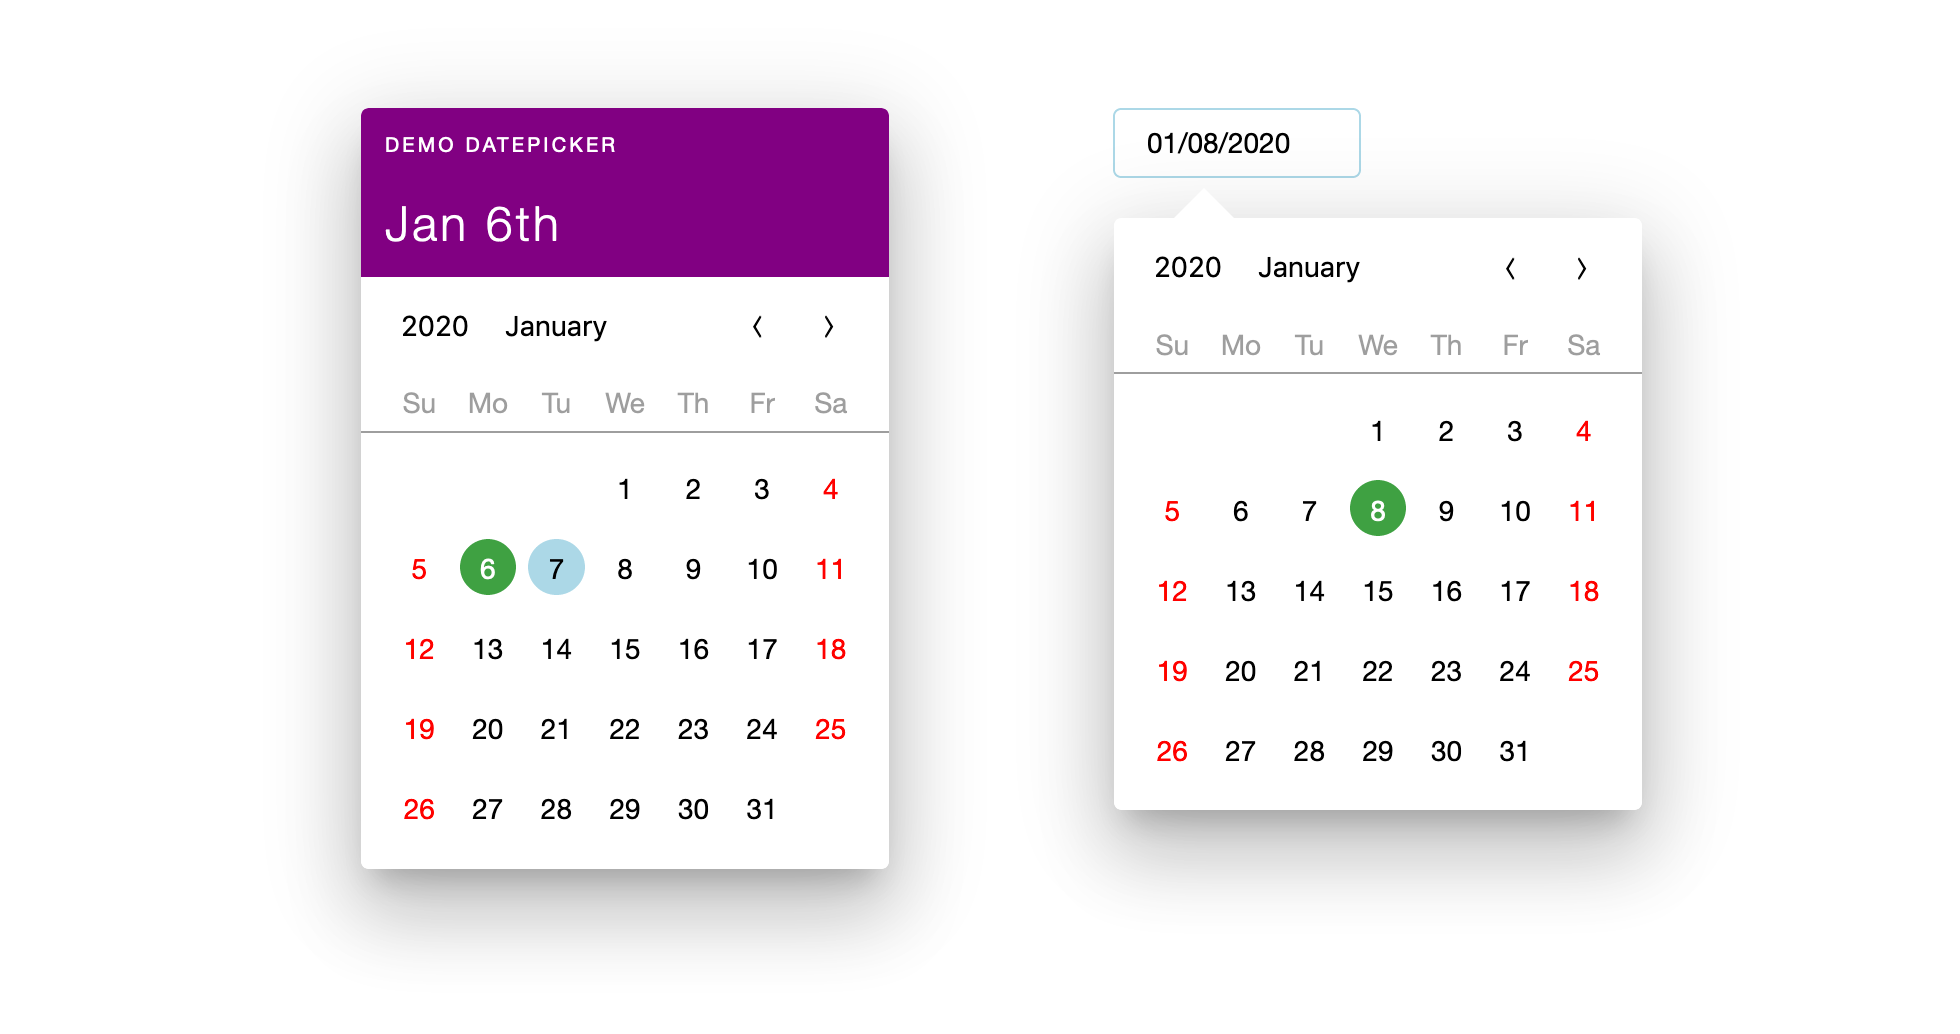
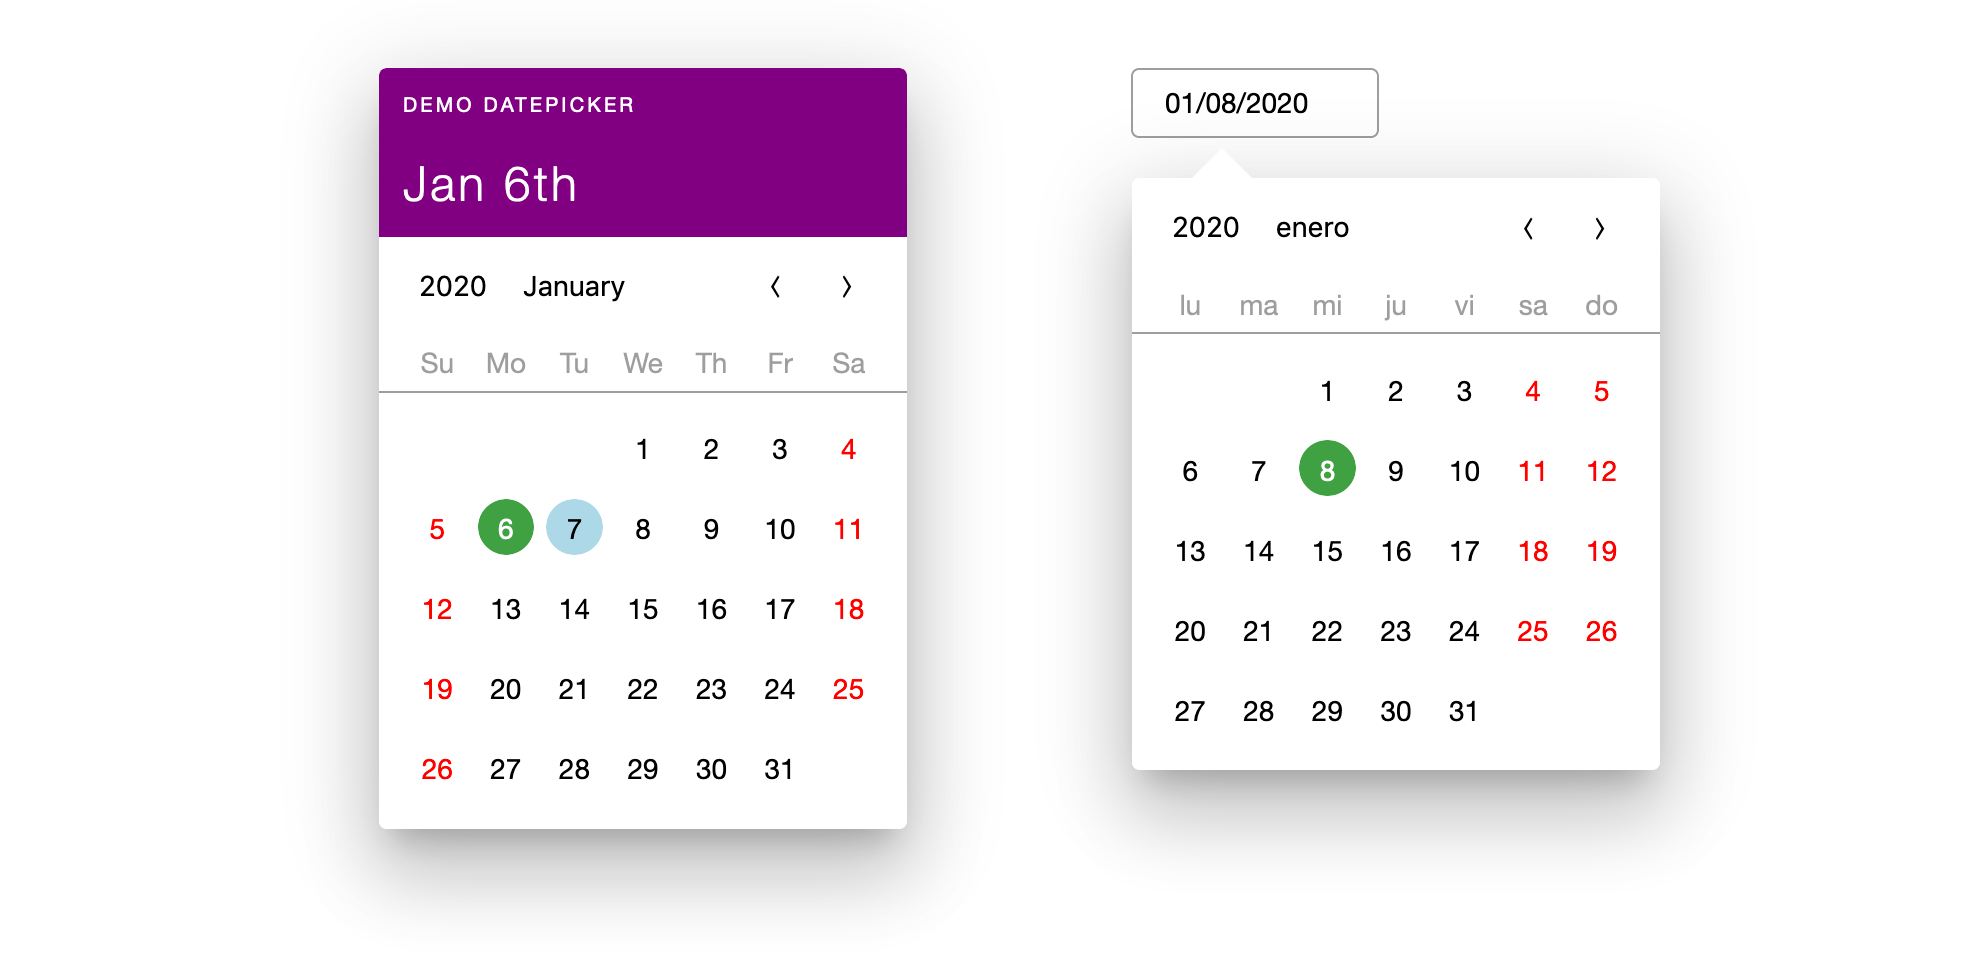
clean up

diff --git a/src/App.js b/src/App.js
@@ -1,6 +1,7 @@
 /*eslint-disable*/
 import React from 'react';
 import {isSameDay} from 'date-fns'
+import customLocale from 'date-fns/locale/es';
 import DatePicker, {DatePickerInput} from 'entryPoint';
 import './App.css';
 
@@ -27,10 +28,11 @@ const App = () => (
     </div>
     <div className="container">
       <DatePickerInput
+        minPrecision="month"
         onDateSet={date => {
           // console.log('date set', date);
         }}
-        mode="modal"
+        dateFnsLocale={customLocale}
         title="Demo datepicker"
       />
     </div>

diff --git a/src/components/DatePickerInput/DatePickerInput.js b/src/components/DatePickerInput/DatePickerInput.js
@@ -1,11 +1,7 @@
 import React from 'react';
 import PropTypes from 'prop-types';
 import {useModalContext, useModalActions} from 'features/modal';
-import {
-  useDatePickerContext,
-  useHasInitialValues,
-  useSetInitialValues,
-} from 'features/datepicker';
+import {useHasInitialValues, useSetInitialValues} from 'features/datepicker';
 import DatePicker, {propTypes} from 'components/DatePicker/DatePicker';
 import Input from 'components/visual/Input';
 import PopoverProvider, {PopoverWrapper} from 'components/visual/Popover';

diff --git a/README.md b/README.md
@@ -1,4 +1,4 @@
-[![Build Status](https://travis-ci.org/morewings/react-calendar-toolkit.svg?branch=master)](https://travis-ci.org/morewings/react-calendar-toolkit)
+[![Build Status](https://travis-ci.com/morewings/react-calendar-toolkit.svg?branch=master)](https://travis-ci.com/morewings/react-calendar-toolkit)
 [![codecov](https://codecov.io/gh/morewings/react-calendar-toolkit/branch/master/graph/badge.svg)](https://codecov.io/gh/morewings/react-calendar-toolkit)
 [![npm version](https://badge.fury.io/js/react-calendar-toolkit.svg)](https://www.npmjs.com/package/react-calendar-toolkit)
 [![types included](https://badgen.net/npm/types/tslib)](https://github.com/morewings/react-calendar-toolkit/blob/master/types/index.d.ts)
